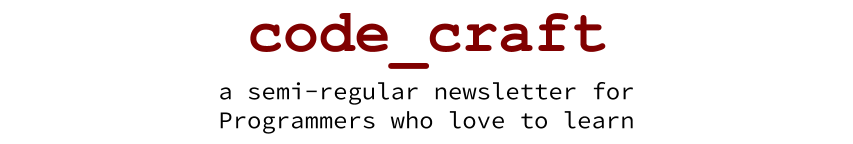
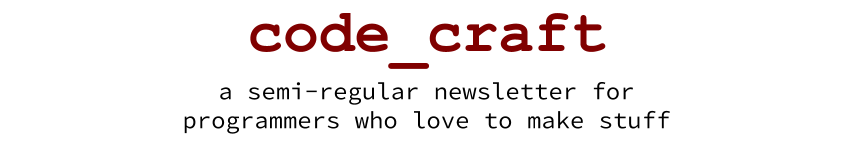
changing tag line

Changed region(s): [[0.2134, 0.75, 0.7925, 0.9444]]

diff --git a/home.html b/home.html
@@ -4,7 +4,7 @@
     <meta charset="utf-8">
     <meta http-equiv="X-UA-Compatible" content="IE=edge">
     <meta name="viewport" content="width=device-width, initial-scale=1">
-    <title>code_craft | a newsletter for programmers who love to make stuff</title>
+    <title>code_craft | a semi-regular newsletter for programmers</title>
 
     <link href="main.css" rel="stylesheet" type="text/css">
     <link href="//fonts.googleapis.com/css?family=Cousine:400,700,400italic,700italic" rel="stylesheet" type="text/css">
